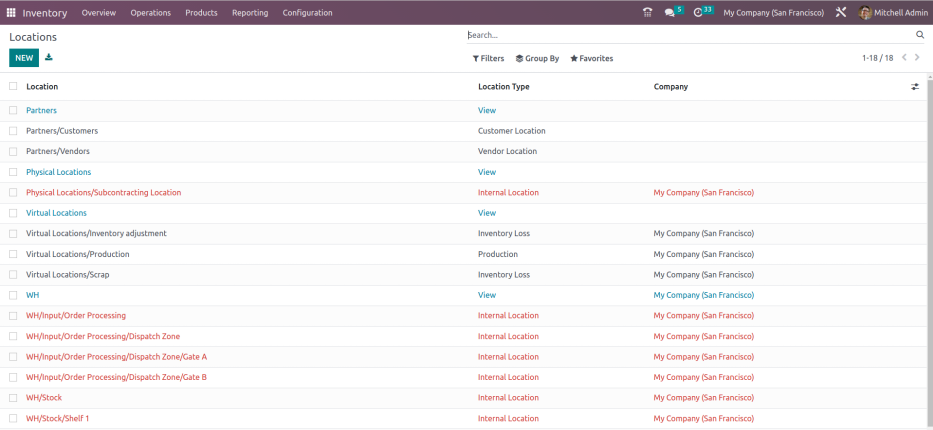
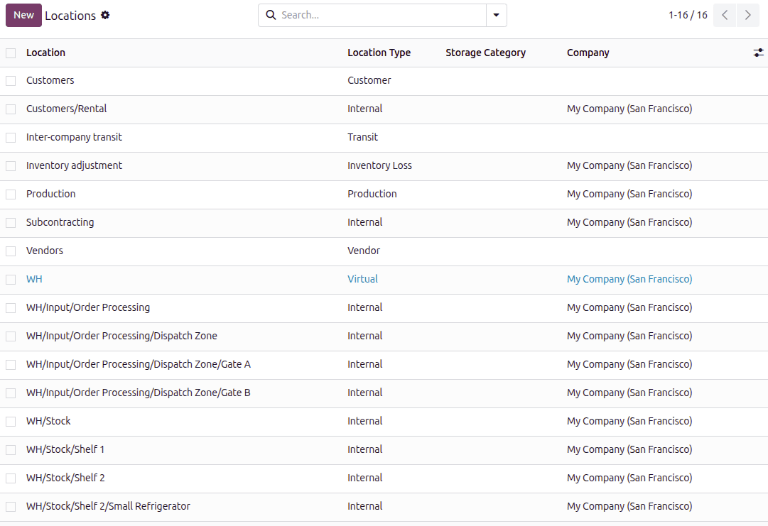
[IMP] Inventory: bringing inventory management current with 19.0

diff --git a/content/applications/inventory_and_mrp/inventory/warehouses_storage/inventory_management.rst b/content/applications/inventory_and_mrp/inventory/warehouses_storage/inventory_management.rst
@@ -53,59 +53,57 @@ page, only internal locations are displayed.
 To view the seven location types in Odoo, select any location, and in the :guilabel:`Location Type`
 field, there are:
 
-- :guilabel:`Vendor Location`: defines an area where products purchased from vendors originate.
-  Items here are **not** in stock.
+- :guilabel:`Vendor`: defines an area where products purchased from vendors originate. Items here
+  are **not** in stock.
 
-- :guilabel:`View`: used to organize and structure the warehouse hierarchy. For example, the view
-  location `WH` (short for warehouse) groups all internal locations, such as `Stock`, receiving
-  docks, quality checkpoints, and packing areas to show they all belong to the same warehouse.
+- :guilabel:`Virtual`: used to organize and structure the warehouse hierarchy. For example, the
+  virtual location `WH` (short for warehouse) groups all internal locations, such as `Stock`,
+  receiving docks, quality checkpoints, and packing areas to show they all belong to the same
+  warehouse.
 
   .. important::
-     View locations should **not** contain products, but it is possible to move them there.
+     Virtual locations should **not** contain products, but it is possible to move them there.
 
-- :guilabel:`Internal Location`: storage locations within the warehouse. Items stored in these
-  locations are accounted for in :doc:`inventory valuation <../inventory_valuation/cheat_sheet>`.
+- :guilabel:`Internal`: storage locations within the warehouse. Items stored in these locations are
+  accounted for in :doc:`inventory valuation <../inventory_valuation/cheat_sheet>`.
 
-- :guilabel:`Customer Location`: where sold products are tracked; items here are no longer in stock.
+- :guilabel:`Customer`: where sold products are tracked; items here are no longer in stock.
 
 - :guilabel:`Inventory Loss`: counterpart location to consume missing items or create stock,
   accounting for discrepancies.
 
-  In Odoo, examples of inventory loss locations are *Inventory Adjustment*, used to account for
+  In Odoo, examples of inventory loss locations are *Inventory adjustment*, used to account for
   discrepancies during an inventory count, and *Scrap*, which is where damaged goods are sent to
   account for inventory losses.
 
    .. example::
-      `Virtual Locations/Inventory Adjustment` is a location with the :guilabel:`Inventory Loss`
-      type. The database shows `65` units in `WH/Stock`, but an inventory check reveals `60`. To
-      correct the quantity, five units are moved from `WH/Stock` to `Virtual Locations/Inventory
-      Adjustment`.
+      `Inventory adjustment` is a location with the :guilabel:`Inventory Loss` type. The database
+      shows `8` units in `WH/Stock`, but an inventory check reveals `4`. To correct the quantity,
+      four units are moved from `WH/Stock` to `Inventory adjustment`.
 
       .. image:: inventory_management/inventory-loss.png
-         :align: center
-         :alt: Product ends up in Virtual Locations/Inventory Adjustment.
+         :alt: Product ends up in Inventory adjustment.
 
 - :guilabel:`Production`: where raw materials are consumed, and :doc:`manufactured products
   <../../manufacturing>` are created.
 
-- :guilabel:`Transit Location`: used for inter-company or inter-warehouse operations to track
-  products shipped between different addresses, such as :ref:`Physical Locations/Inter-warehouse
+- :guilabel:`Transit`: used for inter-company or inter-warehouse operations to track products
+  shipped between different addresses, such as :ref:`Physical Locations/Inter-warehouse
   transit <inventory/warehouses_storage/interwarehouse-transit>`.
 
 .. image:: inventory_management/locations.png
-   :align: center
    :alt: List of locations in Odoo.
 
 .. note::
    In Odoo, location types are color-coded:
-     - **Red**: internal locations
-     - **Blue**: view locations
-     - **Black**: external locations (including inventory loss, vendor, and customer locations).
+     - **Blue**: virtual locations
+     - **Black**: internal and external locations (including inventory loss, vendor, and customer
+       locations).
 
 View locations in Odoo
 ----------------------
 
-Odoo databases include preconfigured view locations to organize the hierarchy of locations. These
+Odoo databases include preconfigured virtual locations to organize the hierarchy of locations. These
 provide helpful context, and distinguish between internal and external locations.
 
 - *Physical locations* group internal locations—such as secondary warehouses and subcontractor
@@ -118,7 +116,7 @@ provide helpful context, and distinguish between internal and external locations
   .. example::
      When moving products in warehouses `WH` and `WH2`, the items are not in either warehouse, but
      still belong to the company. While in transit, they are placed in the `Inter-warehouse transit`
-     location, a :guilabel:`Transit Location` type.
+     location, a :guilabel:`Transit` type.
 
      This location is under the view location, `Physical Locations`, indicating that
      `Inter-warehouse transit` is outside of a warehouse, but still part of the company. Doing so
